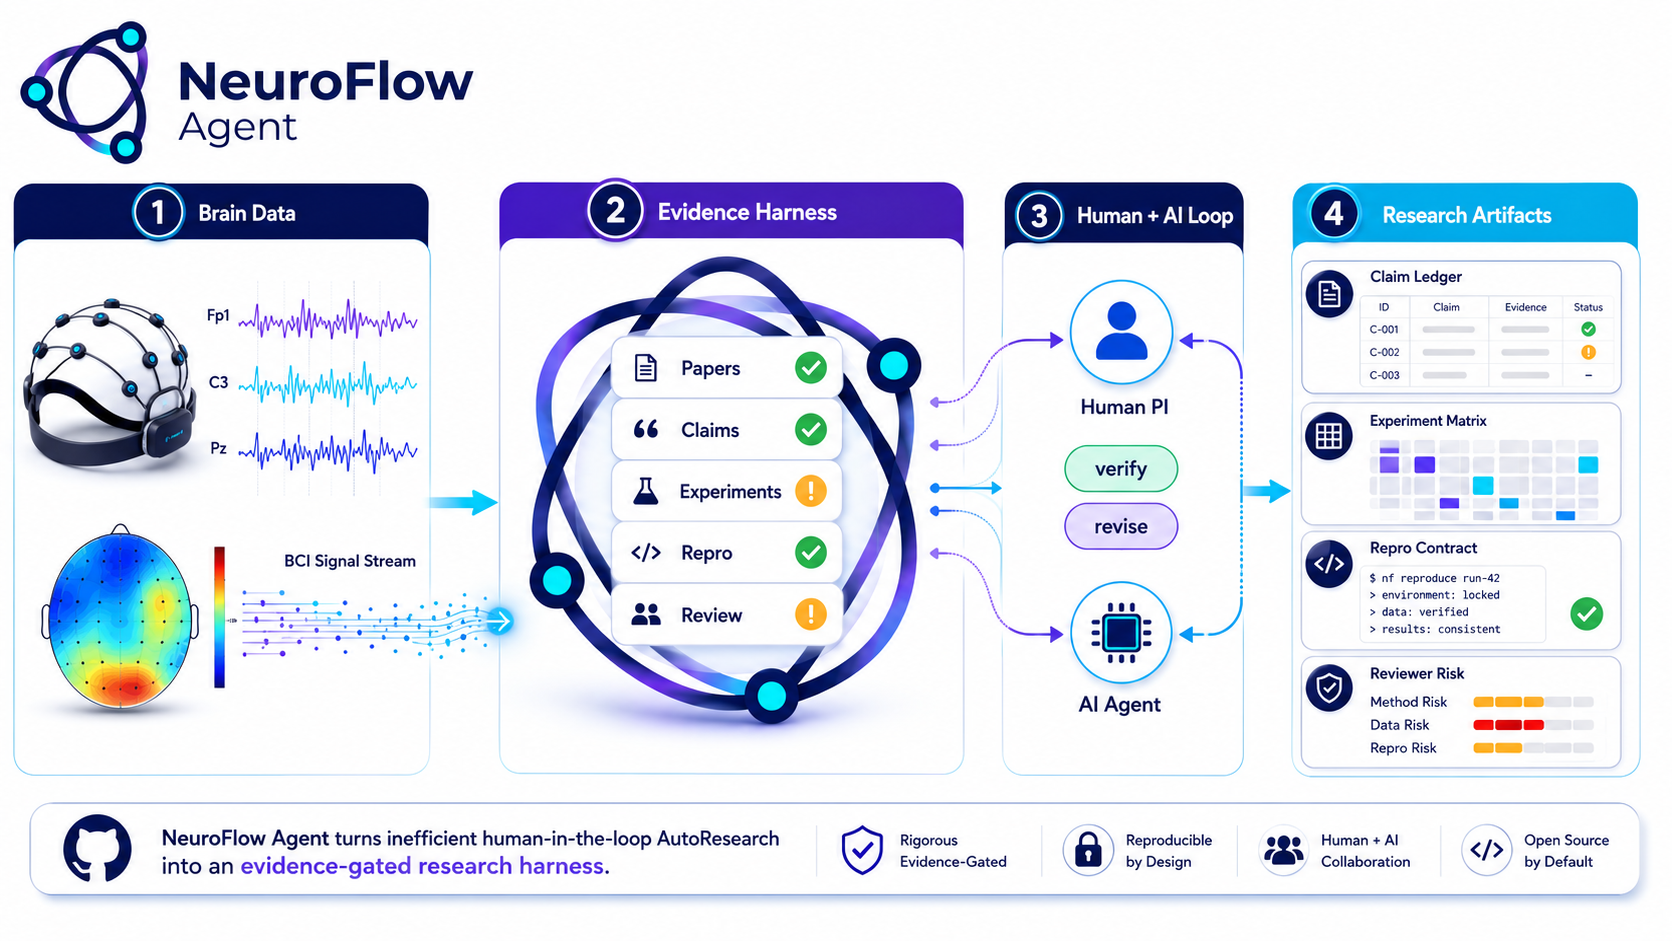
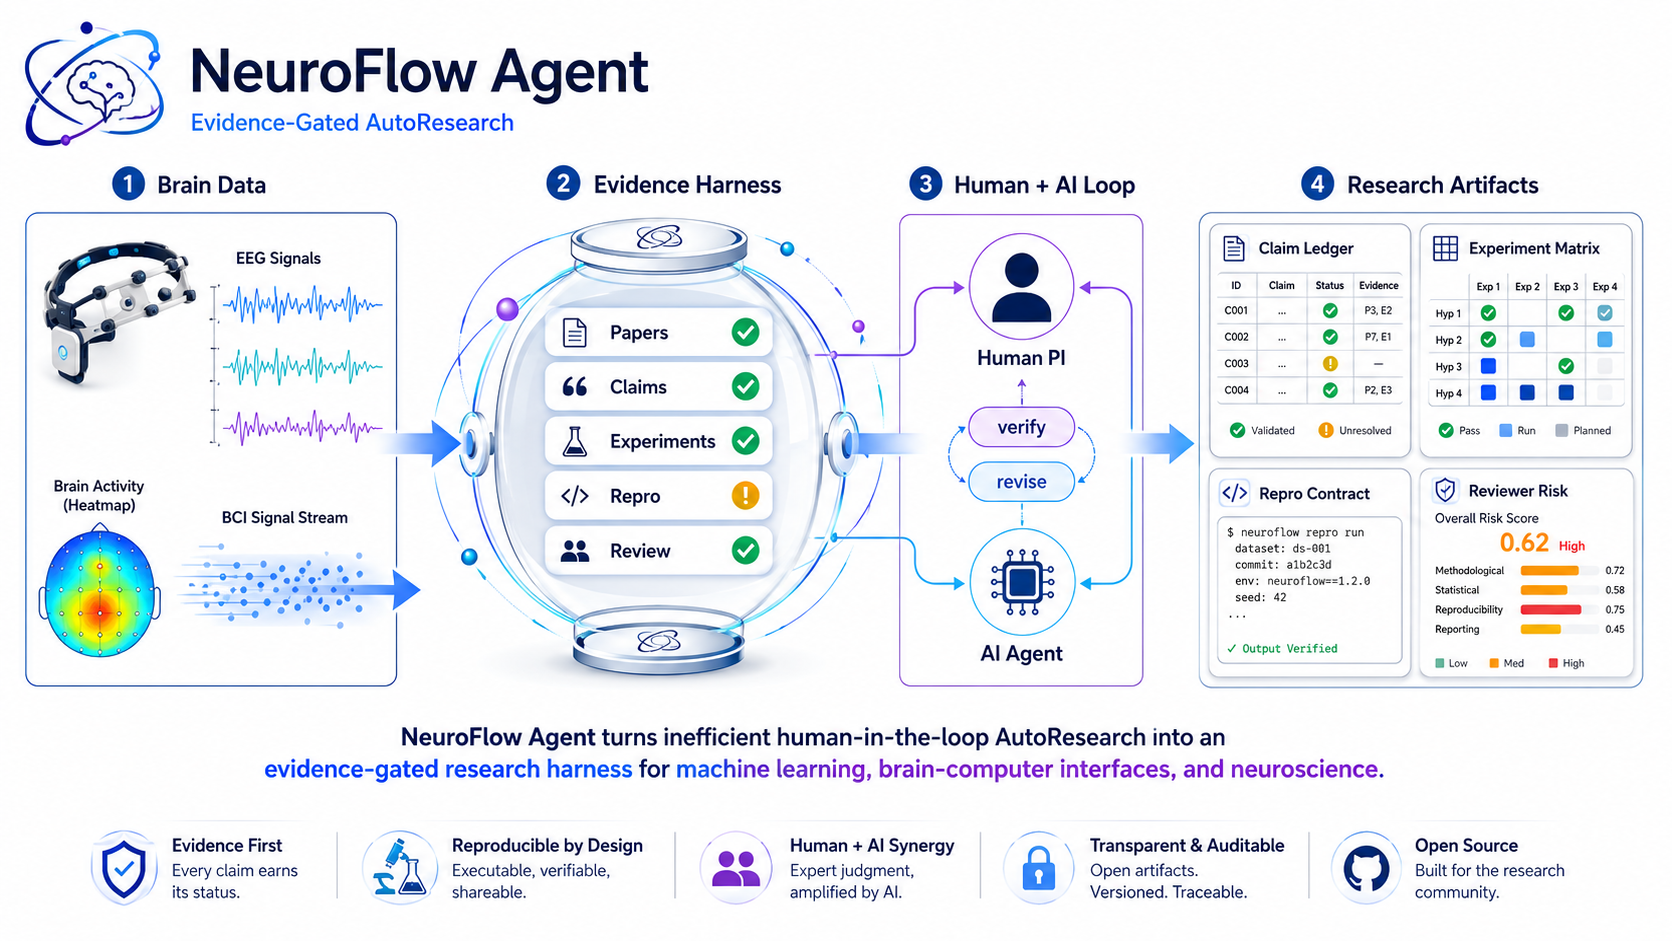
Refine README positioning and framework image

Changed region(s): [[0.0, 0.0, 0.9952, 0.8321], [0.0311, 0.8629, 0.9952, 0.9862], [0.1244, 0.5239, 0.2177, 0.5547]]

diff --git a/README.md b/README.md
@@ -4,8 +4,8 @@
   </a>
 
   <p>
-    <b>A vertical agent workflow system for AI x brain, behavior, cognition, and embodied intelligence research.</b><br>
-    NeuroFlow-Agent turns frontier AI methods and models into explicit research workflows for neural encoding, decoding, analysis, representation, modulation, cognitive science, psychology, brain-inspired algorithms, and embodied AI.
+    <b>A domain-knowledge-correct AutoResearch and human-in-the-loop workflow agent for ML x BCI x neuroscience.</b><br>
+    NeuroFlow-Agent distills lessons from strong general skill libraries, research workflows, and real project failures into a conference-grade skill library, domain knowledge base, and self-evolving index graph.
   </p>
 
   <p>
@@ -33,7 +33,13 @@
 
 ## NeuroFlow at a Glance
 
-NeuroFlow-Agent turns inefficient human-in-the-loop AutoResearch into an evidence-gated research harness for machine learning, brain-computer interfaces, and neuroscience. Instead of letting an agent jump from raw papers or experiment logs directly to polished claims, NeuroFlow makes the intermediate reasoning visible and auditable.
+NeuroFlow-Agent turns inefficient human-in-the-loop AutoResearch into an evidence-gated research harness for machine learning, brain-computer interfaces, and neuroscience. It is built from lessons learned across strong general skills, open workflow systems, paper-writing skills, reproduction playbooks, reviewer simulators, and real ML x brain research sessions.
+
+The project is not a narrow prompt pack. It is a maintained workflow-agent repository with three goals:
+
+- **Domain-knowledge-correct AutoResearch**: keep AI agents inside valid ML x BCI x neuroscience assumptions before they write claims, design experiments, or summarize papers.
+- **Submission-facing skills**: support work aimed at top machine learning conferences and flagship or specialty neuroscience journals, including claim grounding, experiment design, reproduction, review simulation, and paper writing.
+- **Self-evolving knowledge system**: maintain a domain knowledge base, reference index, paper maps, evals, and workflow memory that can improve as the user works with the agent.
 
 The framework has four visible stages:
 
@@ -50,13 +56,21 @@ This makes NeuroFlow a practical open-source workflow layer for researchers who 
 
 An agent has three practical components: the model, the tools, and the workflow. Models and tools are increasingly shared infrastructure. The vertical layer is the workflow: the domain-specific execution policy that decides which context to replay, which evidence gates are non-negotiable, how deep the task should go, how a result becomes a claim, and what should persist after the session.
 
-NeuroFlow-Agent is built around that thesis. It is not a prompt pack, a generic neuroscience note dump, or a collection of narrow downstream-task helpers. It is a vertical agent workflow system for research at the intersection of AI, brain data, behavior, cognition, psychology, BCI, NeuroAI, brain-inspired algorithms, and embodied intelligence.
+NeuroFlow-Agent is built around that thesis. It is not a prompt pack, a generic neuroscience note dump, or a collection of narrow downstream-task helpers. It is a maintained workflow-agent repository for ML x BCI x neuroscience research, built by absorbing lessons from general-purpose skill libraries and turning them into domain-specific execution policy.
 
-The system is designed to make frontier AI methods usable in fragile scientific settings: multimodal large language models, generative models, representation learning, foundation models, agents, continual learning, reinforcement learning, world models, and embodied AI should be routed through rigorous research workflows before they become experiments, papers, claims, or memory.
+The system is designed to make AutoResearch and human-in-the-loop agent work scientifically useful rather than merely fluent. Frontier ML methods, foundation models, agents, generative models, representation learning, continual learning, and BCI/neuroscience pipelines should be routed through domain evidence gates before they become experiments, papers, claims, or memory.
 
 ## What NeuroFlow-Agent Is
 
-NeuroFlow-Agent is a compact operating layer for rigorous AI x brain research agents. It uses `neuro-orchestrator` as the single default workflow entry point, then selects optional specialist modules for literature grounding, benchmark auditing, reproduction, experiment design, reviewer simulation, writing, and durable memory.
+NeuroFlow-Agent is a compact operating layer for rigorous ML x BCI x neuroscience research agents. It uses `neuro-orchestrator` as the single default workflow entry point, then selects optional specialist modules for literature grounding, benchmark auditing, reproduction, experiment design, reviewer simulation, writing, and durable memory.
+
+The repository combines three layers:
+
+| Layer | What NeuroFlow maintains |
+|---|---|
+| Skill library | Submission-facing skills for top ML conferences and flagship or specialty neuroscience journals: paper grounding, benchmark audit, experiment design, reproduction, reviewer simulation, and paper writing. |
+| Domain knowledge base | AI x BCI and neuroscience-specific assumptions, paper maps, dataset and method taxonomies, claim-to-citation memory, and reviewer-risk playbooks. |
+| Self-evolving index graph | Manifests, evals, references, runtime traces, and memory rules that let the workflow improve as the user repeatedly applies it. |
 
 The project covers a broad research surface:
 

diff --git a/README_CN.md b/README_CN.md
@@ -4,8 +4,8 @@
   </a>
 
   <p>
-    <b>面向 AI x BCI 与 NeuroAI research agents 的自进化工作流系统。</b><br>
-    以 neuro-orchestrator 作为唯一默认入口，显式调度 NeuroFlow pipeline，并把 specialist skills 作为可选模块使用。
+    <b>面向机器学习 x 脑机接口 x 神经科学的领域知识正确 AutoResearch / human-in-the-loop workflow agent。</b><br>
+    NeuroFlow-Agent 吸收优秀通用 skills 库、科研 workflow 和真实项目踩坑经验，维护一个面向顶会与正刊/子刊投稿的技能库、领域知识库和自进化索引图谱。
   </p>
 
   <p>
@@ -31,7 +31,13 @@
 
 ## 一图看懂 NeuroFlow
 
-NeuroFlow-Agent 把低效的 human-in-the-loop AutoResearch 变成一个 evidence-gated research harness，服务于机器学习、脑机接口和神经科学交叉研究。它不是让 agent 从论文、实验日志或 repo 直接跳到漂亮 claim，而是把中间推理、证据检查和人工校验变成可见、可审计、可复用的 workflow。
+NeuroFlow-Agent 把低效的 human-in-the-loop AutoResearch 变成一个 evidence-gated research harness，服务于机器学习、脑机接口和神经科学交叉研究。它不是让 agent 从论文、实验日志或 repo 直接跳到漂亮 claim，而是把通用 skills、开源 workflow、论文写作技能、复现 playbook、reviewer simulator 和真实 ML x brain 研究会话中的经验教训，沉淀成可见、可审计、可复用的 workflow。
+
+这个项目不是一个简单 prompt pack，而是一个持续维护的 workflow-agent 仓库，核心目标有三点：
+
+- **领域知识正确的 AutoResearch**：让 AI agent 在写 claim、设计实验或总结论文之前，先进入 ML x BCI x neuroscience 的有效假设和证据边界。
+- **面向投稿的技能库**：服务机器学习顶会，以及神经科学正刊/子刊投稿场景，覆盖文献 grounding、实验设计、复现、审稿模拟和论文写作。
+- **自进化知识系统**：维护领域知识库、reference index、paper maps、evals 和 workflow memory，并随着用户真实使用持续改进。
 
 这张主图对应四个阶段：
 
@@ -44,11 +50,17 @@ NeuroFlow-Agent 把低效的 human-in-the-loop AutoResearch 变成一个 evidenc
 
 因此，NeuroFlow 更适合作为开源科研工作流层：帮助 AI agents 真正参与 ML x BCI 和 NeuroAI 项目，同时避免 unsupported claims、citation noise、未复现结果和低质量自动论文写作。
 
-这是一个面向 AI x BCI 研究的自进化工作流系统，用于让 agent 在多模态神经解码、EEG 视觉重建、扩散/生成模型、脑语言对齐、闭环脑调控、Physical AI 和 NeuroAI 项目中更像严谨的科研合作者。默认入口是 `neuro-orchestrator`；其他 specialist skills 是由它选择的可选模块。
+这是一个面向 ML x BCI x neuroscience 研究的自进化工作流系统，用于让 agent 在多模态神经解码、EEG 视觉重建、扩散/生成模型、脑语言对齐、闭环脑调控和 NeuroAI 项目中更像严谨的科研合作者。默认入口是 `neuro-orchestrator`；其他 specialist skills 是由它选择的可选模块。
 
-仓库的核心思想不是“做一个简单的 AI 与脑机交叉 skill”，而是把 agent 在垂直科研场景中真正需要被定制的部分沉淀下来。Agent 通常由三部分组成：模型、工具和 workflow。模型和工具越来越像通用基础设施，唯独 workflow 需要根据具体研究领域、实验脆弱点、任务深度、审稿标准和长期项目记忆来定制。因此，本仓库的目标是打造一个由 `neuro-orchestrator` 显式调度、specialist skills 作为可选模块、自进化、记忆重放和记忆巩固能力的 AI x BCI 持久工作流系统。
+仓库的核心思想不是“做一个简单的 AI 与脑机交叉 skill”，而是把 agent 在垂直科研场景中真正需要被定制的部分沉淀下来。Agent 通常由三部分组成：模型、工具和 workflow。模型和工具越来越像通用基础设施，唯独 workflow 需要根据具体研究领域、实验脆弱点、任务深度、审稿标准和长期项目记忆来定制。因此，本仓库的目标是打造一个由 `neuro-orchestrator` 显式调度、specialist skills 作为可选模块、自进化、记忆重放和记忆巩固能力的 ML x BCI 持久工作流系统。
 
 `neuro-orchestrator/SKILL.md` 负责唯一入口和显式 pipeline 路由，`references/` 保存可重放的研究记忆和细分工作流，`scripts/` 保存确定性辅助脚本，`evals/` 保存行为评测 prompt，`docs/` 解释这些机制如何组织成一个可持续迭代的系统。浅层任务可以只读取最小记忆并快速回答；标准任务可以调用一个可选模块并通过证据检查；深度任务可以跨 literature grounding、experiment design、review simulation 和 memory consolidation 显式执行。
+
+| 层级 | NeuroFlow 维护什么 |
+|---|---|
+| 技能库 | 面向机器学习顶会和神经科学正刊/子刊的投稿技能：paper grounding、benchmark audit、experiment design、reproduction、reviewer simulation 和 paper writing。 |
+| 领域知识库 | AI x BCI 与神经科学专属假设、paper maps、dataset/method taxonomy、claim-to-citation memory 和 reviewer-risk playbooks。 |
+| 自进化索引图谱 | manifests、evals、references、runtime traces 和 memory rules，让 workflow 能随着用户真实使用持续改进。 |
 
 ## 为什么核心是 Workflow
 
